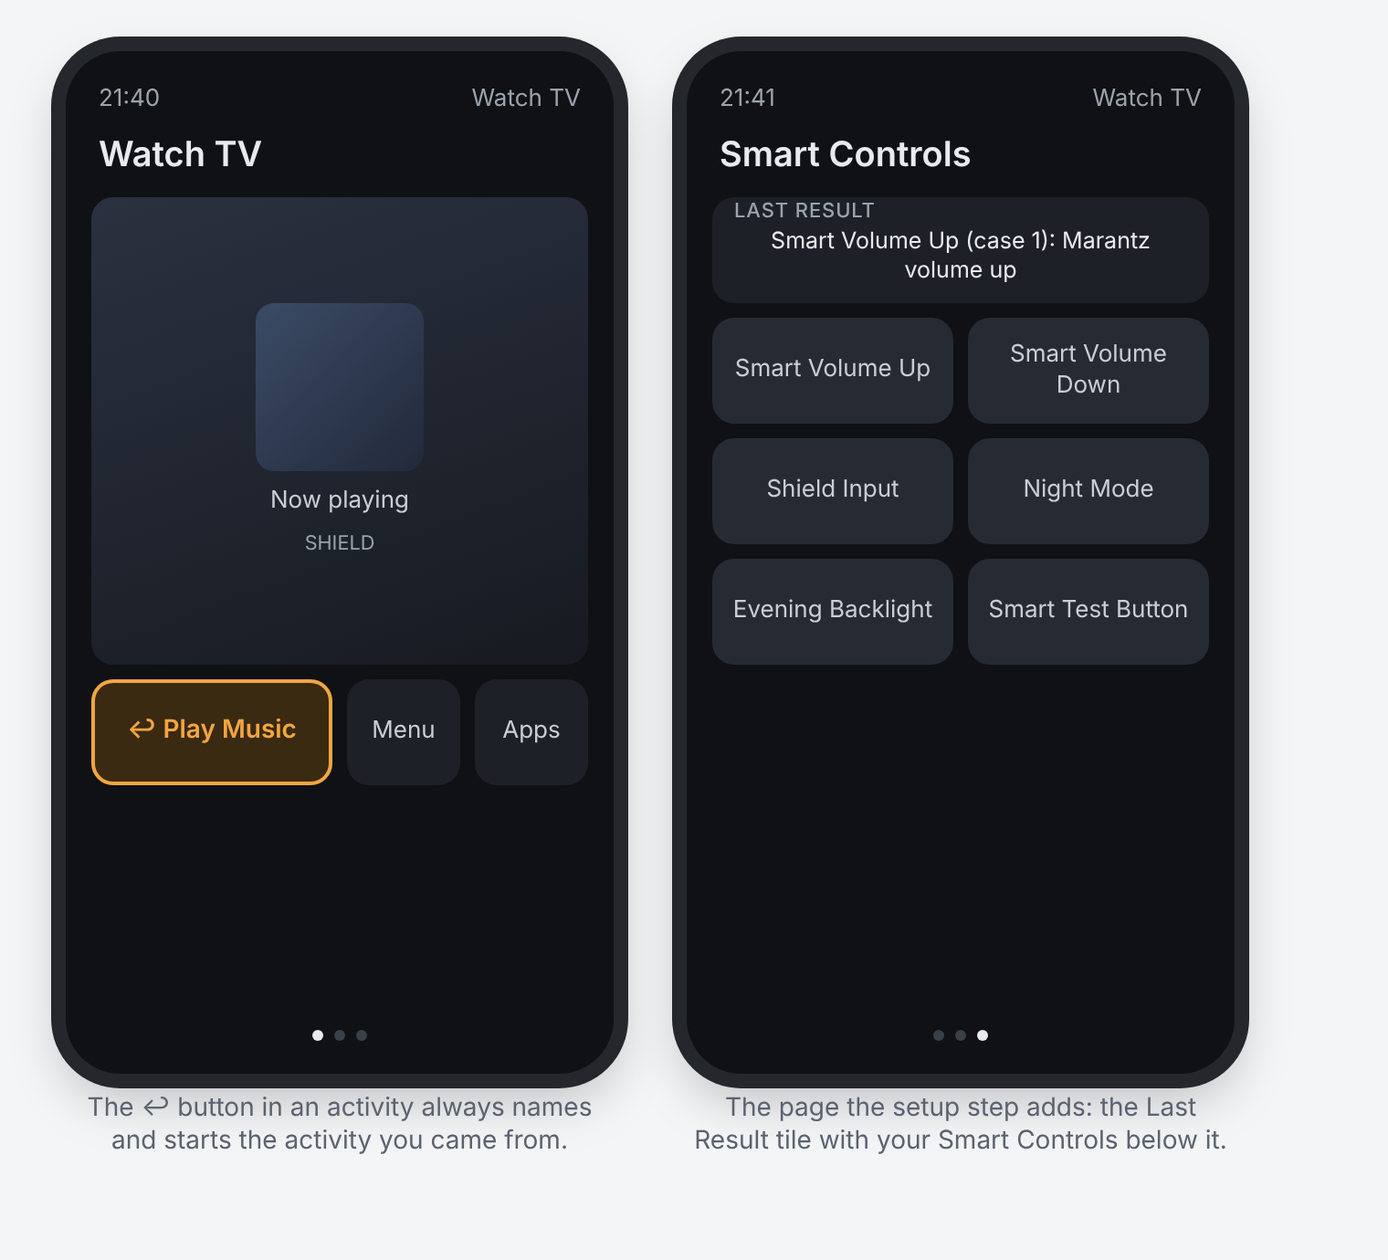
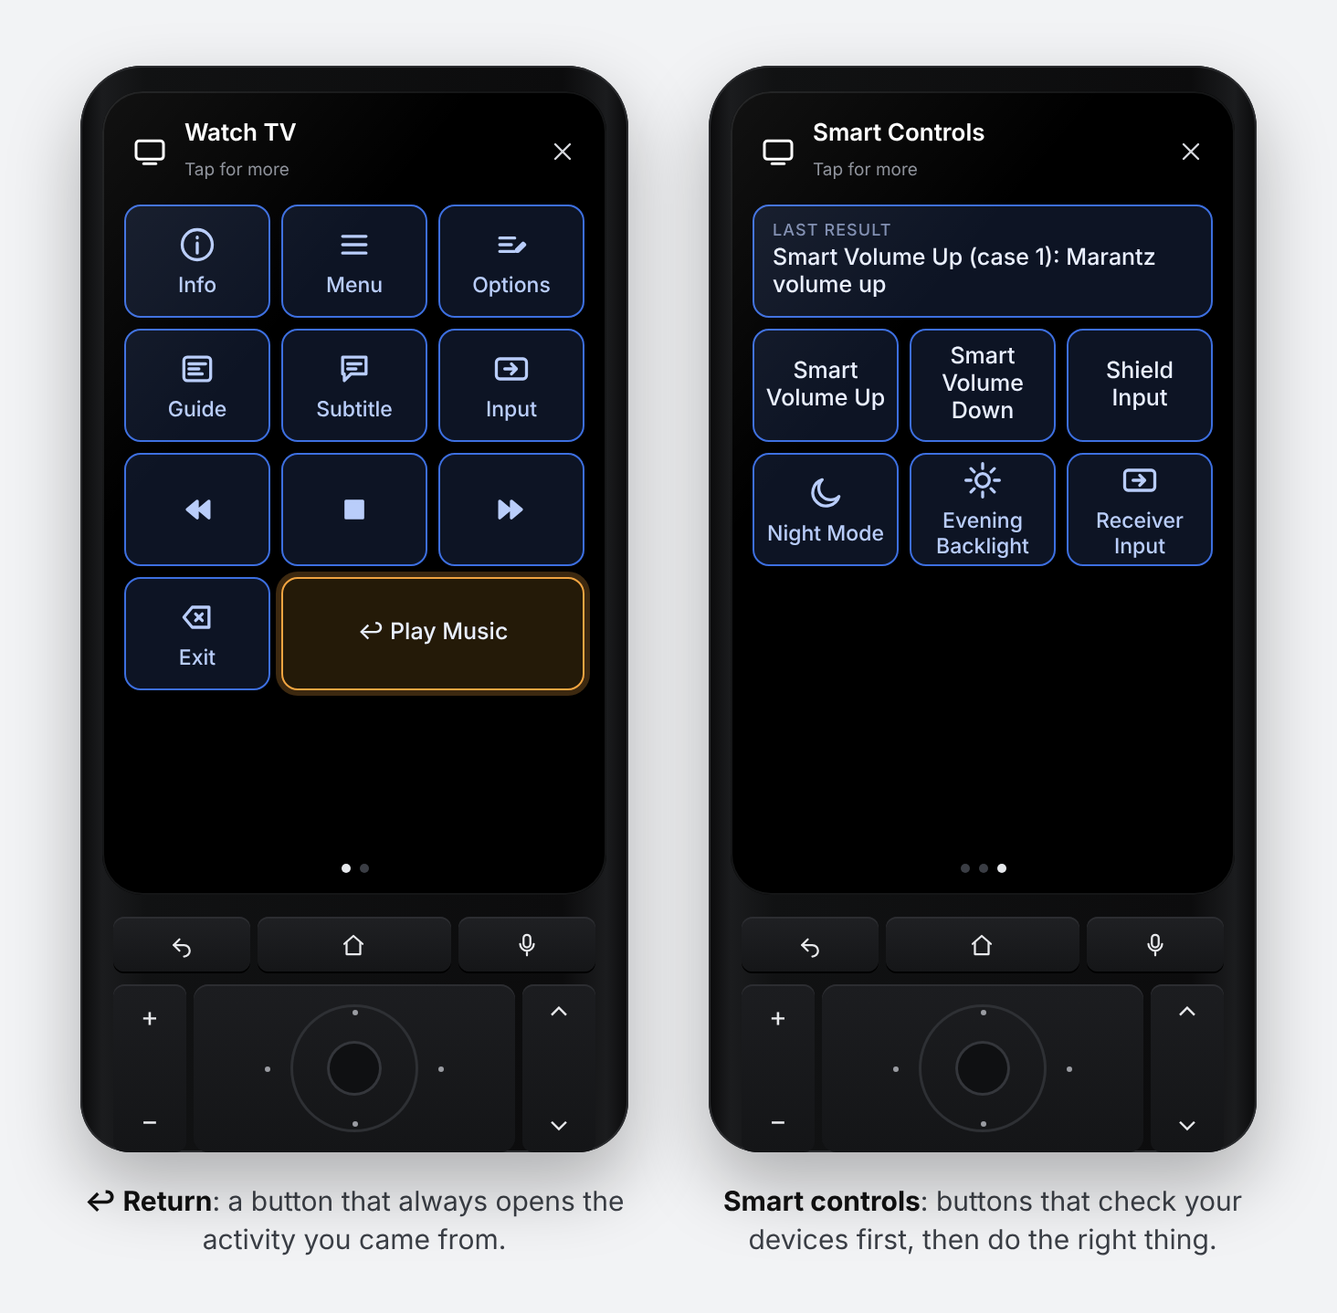
README for 0.8.0 (Controls, level pictures, device states, backup); new illustrations drawn after the Remote 3 screen; refreshed builder screenshots; states panel stacks its rows beside the editor
Claude-Session: https://claude.ai/code/session_016NWB9HcLxpD9Fz1hEPwFis

diff --git a/src/bin/web/builder.html b/src/bin/web/builder.html
@@ -128,7 +128,13 @@ details textarea { width: 100%; min-height: 120px; margin-block: 8px; }
 .pane-main { flex: 999 1 560px; min-width: 0; display: flex; flex-direction: column; gap: 14px; }
 .pane-side { flex: 1 1 340px; min-width: 0; position: sticky; top: 12px; max-height: calc(100vh - 24px); overflow-y: auto; }
 @media (max-width: 960px) { .pane-side { position: static; max-height: none; } }
-.pane-side .stable td.k { white-space: normal; }
+/* beside the editor the panel is narrow: name and current value on one line, the values below */
+.pane-side .stable thead { display: none; }
+.pane-side .stable tr { display: grid; grid-template-columns: auto 1fr; column-gap: 8px; border-bottom: 1px solid var(--line); }
+.pane-side .stable td { border-bottom: 0; }
+.pane-side .stable td.k { white-space: normal; overflow-wrap: anywhere; }
+.pane-side .stable td.now { overflow-wrap: normal; }
+.pane-side .stable td:nth-child(3) { grid-column: 1 / -1; padding-top: 0; }
 .states-panel summary { font-weight: 600; cursor: pointer; }
 .states-body { display: flex; flex-direction: column; gap: 10px; margin-top: 8px; }
 .stable { width: 100%; border-collapse: collapse; font-size: 13px; }

diff --git a/README.md b/README.md
@@ -8,18 +8,24 @@ A custom integration for the **Unfolded Circle Remote 3** (and Remote Two) that 
 - **Smart Controls:** buttons with if / else logic ("if the receiver is on, turn *it* up, otherwise the TV"), built in a browser page the integration serves itself.
 - **State icons:** make a button on a page change its icon with a device's state, like a green power icon while the receiver is on. Pick the button, drop in an image per state.
 - **Sliders & quick menus:** turn any number on your devices (receiver volume, a light, a blind) into a slider with the remote's own slider pop-up, and make pop-up menus whose choices run Smart Control steps (inputs, sound modes, scenes).
-- **Return to previous activity:** a ↩ button (on screen or a physical button) that always takes you back to the activity you came from.
+- **Return to previous activity:** a ↩ button (on screen or a physical button) that always takes you back to the activity you came from, optionally turning off the one you leave.
+- **Controls:** press a switch and the volume rocker and touch slider change something else for a few seconds (a light, a tone control, the screen brightness), with the remote's own volume pop-up.
+- **Level pictures:** a button that shows a device's level (bar, gauge, battery, …, 16 designs) in any color, even changing color with the value.
+- **Device states (live):** see every value your devices (and the remote itself, including its battery) report, and click them into conditions and state icons.
+- **Backup and restore:** everything you set up, with its pictures, in one file.
 
 > [!WARNING]
 > **Beta.** Tested on one Remote 3 so far. The integration changes your remote's settings, activities, pages and button mappings. **Back up your remote's configuration in the web configurator before installing**, so you can restore it if something goes wrong.
 
 > Community project, not affiliated with Unfolded Circle. MIT licensed. It changes the remote's settings through the remote's local Core REST API.
 
-![The ↩ button and the Smart Controls page on the remote (illustration)](docs/images/remote-screens.png)
+![The ↩ button and a Smart Controls page on the remote (illustration)](docs/images/remote-screens.png)
 
-<p align="center"><img src="docs/images/state-icon-demo.gif" alt="State icon: the power button turns green when the receiver is on" width="320"></p>
+![Controls with the remote's own pop-up, and a level picture on a button (illustration)](docs/images/remote-controls.png)
 
-*Illustration of what the integration adds to an activity. The screenshots below are of the real builder page, running against a test remote with example devices.*
+<p align="center"><img src="docs/images/state-icon-demo.gif" alt="State icon: the power button turns green when the receiver is on" width="300"></p>
+
+*Illustrations of what the integration adds to your activities, drawn after a Remote 3 screen. The screenshots further down are of the real builder page, running against a test remote with example devices.*
 
 ## Contents
 
@@ -35,6 +41,8 @@ A custom integration for the **Unfolded Circle Remote 3** (and Remote Two) that 
   8. [A power icon that turns green when the receiver is on](#8-a-power-icon-that-turns-green-when-the-receiver-is-on)
   9. [A receiver volume slider](#9-a-receiver-volume-slider)
   10. [A pop-up menu for the receiver's inputs](#10-a-pop-up-menu-for-the-receivers-inputs)
+  11. [The volume keys and touch slider for a light (Controls)](#11-the-volume-keys-and-touch-slider-for-a-light-controls)
+  12. [Back up everything](#12-back-up-everything)
 - [The builder](#the-builder)
 - [Entities](#entities)
 - [Rules reference](#rules-reference)
@@ -50,7 +58,7 @@ A custom integration for the **Unfolded Circle Remote 3** (and Remote Two) that 
    - If setup fails with a connection error, run it again with the remote's own IP address.
 4. Add the entities you want to the integration, then use them in activities, macros or pages.
 
-To update, use Install custom with **Update existing driver** checked. Your Smart Controls and settings are kept. No restart of the remote is needed.
+To update, first save a **Backup** in the builder (walkthrough 12), then use Install custom with **Update existing driver** checked. Your Smart Controls and settings are kept. No restart of the remote is needed.
 
 ## Walkthroughs
 
@@ -122,7 +130,7 @@ Jump from *Watch TV* to a *Home Assistant* or *Music* activity and back with one
 1. Open the builder's **Return ↩** tab → **+ Add an activity**, and pick the activity that gets a ↩ button. Each activity has its own settings and shows as one bar (with where its ↩ goes right now); **Edit** changes it, **Delete** inside the editor removes it.
 2. **On screen:** a text button "↩ <previous activity>", a back arrow, **your own picture** (drag and drop any PNG, JPG or SVG; it's resized to 90×90 and uploaded to the remote) or nothing. It's added to the first free spot of the activity's first page; move it wherever you like in the web configurator. Changing the look later updates the button where it is. A text button needs two free cells side by side; with only one, the icon is used. **The page's grid is never changed**: if there's no free spot, nothing is added (the bar then says so).
 3. **Physical button (optional):** button and short or long press, always or only if there's no room on screen. It replaces what that button does in that activity.
-4. **Turn this activity off when I switch to another one (optional):** the activities you mark go into one of the remote's **activity groups** (you pick which). When you switch between them, the remote turns off the activity you leave but keeps devices the new one uses on, like a shared receiver. This applies to every switch between them, not only ↩.
+4. **Turn this activity off when I switch to another one (optional):** when you leave a marked activity (with ↩ or any other way), the integration sends it a plain "turn off". Meant for a single device's control page (a receiver page, say), whose own on/off sequences don't matter. It works when ↩ goes back to an activity that is still running, too.
 
 The older setup screen (Integrations → Remote Self-Control → **Configure** → **Return to previous activity**) still works for the basic settings.
 
@@ -144,7 +152,7 @@ sequenceDiagram
 
 Why it works this way: the remote only switches screens when *you* press a button that starts an activity. An integration can't switch screens, so instead it rewrites the ↩ buttons ahead of time. While you're in one activity, the ↩ buttons in all the others already point to it.
 
-Limit: the remote reports an activity "starting" only when it goes from off to on. Reopening an activity that's still on (for example with ↩) isn't seen, so ↩ toggles between the last two activities you started.
+The integration follows the remote's own events, so it also sees you reopen an activity that is still on (for example with ↩), and the ↩ buttons keep pointing the right way.
 
 ### 7. Display brightness on the touch slider
 
@@ -188,18 +196,17 @@ A slider is a light entity of this integration that stands for a number on anoth
 3. **Save**, then type a value under **Try a value** and press **Set** to check it.
 4. Integrations → Remote Self-Control → add the new slider (group **Remote Sliders & Menus**).
 5. Put it on a **home page**: tapping the tile opens the slider pop-up. On a Remote 3 you can also set an activity's **touch slider** to it.
-6. Optional: pick a **tile icon** (step 4) and tick **Show the level on a page** (step 5) to add a live level graphic: pick a single-page activity, click the button, pick a design and color (below).
+6. Optional: pick a **tile icon** (step 4), and in step 5 pick a single-page activity and click the button that should **show the level**, then pick a design and color (below).
 
 The slider follows changes made elsewhere (within about 2 seconds while the remote is awake). Switching the slider **off** sets the lowest value; **on** goes back to the last value. When you drag quickly, the newest position wins: values in between are skipped instead of queued.
 
 **Custom graphics.** The slider pop-up itself is drawn by the remote and can't be restyled, but two things can:
 
 - **Tile icon:** 12 icons (volume, speaker, subwoofer, light bulb, brightness, blinds, temperature, fan, knob, equalizer, microphone, list) for the slider's or menu's tile on home pages and in lists. Pick one on the card; it's uploaded to the remote and set once the entity has been added to the integration.
-- **Live level graphic:** a button on an activity page whose image shows the current value: bar, column, arc gauge, ring, dots, signal, speaker, knob, tank, thermometer, equalizer or segments, in 6 colors. It's set up in the slider itself (step 5), the only place level graphics are made. The gauges have transparent backgrounds; because the remote shows one picture per button, **Draw over the button's own picture** (offered when the button has a custom picture, like a tile of a picture-skin page) bakes that picture under the gauge, and **Gauge size** (full, large, medium) leaves more of it visible. 11 images (0 %, 10 % … 100 %) are made in the builder and uploaded when you save, and the button shows the one closest to the value. Same limits as state icons: **single-page activities only**, about 2 seconds' delay. What the button does when pressed doesn't change (map it to the slider's toggle or volume up, for example).
-- **Over several buttons:** set **Draw over** to *Several buttons* and click two opposite corners on the page, for example the top and bottom tiles of the left column. The gauge is drawn as one picture over the whole rectangle (column, row or block, up to 24 buttons) and cut into one image per button. **Fit to the shape**: *Stretch* fills the shape (a column gauge becomes a tall bar down the side), *Keep proportions* centers it. Every button in the shape must be a 1×1 icon or text button; empty spots are allowed (that part isn't shown). Saving uploads 11 images per button, so a 6-button column takes a little longer.
-- **Only when the value changes:** **Show the level** → *Only for a few seconds when the value changes* (1–60 s, default 4). The buttons show their own pictures until the value changes (from anywhere, e.g. the remote's volume keys), then the level appears and hides again after the set time. Like all page changes it arrives about 2 seconds after the change.
+- **Level picture:** a button on an activity page whose picture shows the current value. 16 designs: bar, column, arc gauge, ring, dots, signal, speaker, knob, tank, thermometer, equalizer, segments, battery, needle, pie and steps. Pick the color on a **color wheel**, and add **Change color from a value…** steps (for example orange from 60 %, red from 85 %). 11 pictures (0 %, 10 % … 100 %) are made in the builder and uploaded when you save, and the button shows the one closest to the value. **Size** (full, large, medium) leaves room around it. Same limits as state icons: **single-page activities only**, about 2 seconds' delay. What the button does when pressed doesn't change (map it to the slider's toggle or volume up, for example).
+- **Only when the value changes:** **Show the level** → *Only for a few seconds when the value changes* (1–60 s, default 4). The button shows its own look until the value changes (from anywhere, e.g. the remote's volume keys), then the level appears and hides again after the set time.
 
-![The 12 level graphics and 12 tile icons](docs/images/slider-graphics.png)
+![The 16 level pictures, colors by value and the 12 tile icons](docs/images/slider-graphics.png)
 
 ### 10. A pop-up menu for the receiver's inputs
 
@@ -210,11 +217,31 @@ A quick menu is a list entity whose choices each run steps, the same steps as a 
 3. **Save**, then press **Run** on a choice to try it.
 4. Add the menu to the integration, and put it on a home page or an activity page: it opens the remote's list pop-up; picking a choice runs it.
 
-**Step through on a button:** in the menu's **Step through the choices with a button** section, pick an activity, a physical button and short or long press. Each press then runs the next choice (choice 1, then 2, then 3 …) and, with *start over at the first* ticked, goes back to choice 1 after the last. Add the menu to the integration before saving this; the integration maps the button and adds the menu to the activity's devices. Removing the button from the menu unmaps it again.
+**Step through on a button:** map a physical button to the menu's **Select next** (or **Select previous**) in the activity's button mapping. Each press runs the next choice; with *start over at the first* ticked (the default), it goes back to choice 1 after the last.
 
 Choices without a *current when* condition show as current after you pick them. **+ Create quick menu** starts an empty menu for anything else, for example scenes that set lights, inputs and volume together.
 
-![A slider and a quick menu in the builder](docs/images/builder-sliders-menus.png)
+![A slider with a level picture in the builder](docs/images/builder-sliders-menus.png)
+
+### 11. The volume keys and touch slider for a light (Controls)
+
+Point the remote's volume rocker and touch slider at something else for a moment (a light, a tone control, the screen), and get the remote's own volume pop-up with it.
+
+1. Builder → **Controls ⇅** tab → **+ Create control**, name it (*Ceiling Light*) and pick what it changes: a light, a volume, the remote's display or backlight brightness, or one of your sliders (for IR up/down devices).
+2. Set the **starting value** and the **change per rocker press**. For devices that don't report their level, choose whether it starts from the value it was left at or from the starting value every time; **Reset the value** fixes the count when it gets out of step.
+3. **Settings:** how long a control stays on after the last press (or until changed), and per activity what the rocker and touch slider do when no control is on (your TV's volume, the screen brightness, or nothing). **Borrow** keeps the rocker mapped straight to your TV and points it at *Control* only while a control is on.
+4. Integrations → Remote Self-Control → add **Control**, **Control Level**, **Control Active** and the new **Control: Ceiling Light** switch (group **Remote Controls**). Put the switch on a page, set the touch slider to *Control* (or *Control Level*).
+5. Press **Control: Ceiling Light**: the rocker now changes the light with the vertical pop-up, the slider too, and after the timeout everything goes back. Turning another control on switches to it.
+
+![A control in the builder](docs/images/builder-controls.png)
+
+### 12. Back up everything
+
+Builder → **Backup** (top right) → **Download backup** saves one `.json` file with your smart controls, sliders and quick menus, state icons and level pictures, ↩ buttons and Controls, **plus the custom pictures** they use. It doesn't contain the integration's login to the remote.
+
+To restore, choose the file, tick the parts you want and press **Restore**. Every part is checked first; if one has a problem nothing is changed. Missing pictures are uploaded again, so it also works after a factory reset or on another remote (↩ buttons for activities that don't exist there are skipped).
+
+<img src="docs/images/builder-backup.png" alt="Backup and restore" width="760">
 
 ## The builder
 
@@ -229,7 +256,7 @@ The integration serves its own builder page on your network, at `http://<remote-
 - **Create, then list:** each tab starts with its **+ Create** button. It opens an editor box for the new item; a **name is required**. After **Save**, the item shows below as one bar with its name, what it does and an **Edit** button that opens its settings again (with **Delete** inside).
 - **Save** writes to the remote (everything is checked first; errors are listed in the editor). **Save & test** runs a smart control once and shows the result.
 - **Device states (live)** (Smart Controls and Icons & Sliders tabs): pick a device and see every value its integration reports, updated every 2 seconds, with all values seen so far. Tick *Keep collecting in the background* to gather values that only show up now and then (an audio format, an app name). It sits to the right of the editor. Click a value field in the editor, then a value in the panel to fill it in (a condition also gets that device and attribute); in a state icon a clicked value is added as a state, and *use* points a slider at a number. Values seen are also offered in the value lists of state icons and conditions.
-- **Rules text** exports and imports everything as JSON, for backups and sharing.
+- **Backup** (top right) saves and restores everything you set up, with its pictures (walkthrough 12). **Rules text** exports and imports the smart controls alone as JSON, for sharing.
 - Works on phones and in dark mode, and needs no internet: everything is served by the remote.
 
 | Dark mode | Phone |
@@ -266,6 +293,10 @@ Grouped by area in the web configurator.
 | | Sound Effects | switch | on/off |
 | | Haptic Feedback | switch | on/off |
 | **Remote Navigation** | Previous Activity | sensor | name of the activity used before the current one |
+| **Remote Controls** | Control | media player | volume rocker / touch slider target; its volume is the level being changed |
+| | Control Level | light | the same level as a light (touch slider set to a light, home tile pop-up) |
+| | Control Active | sensor | "Ceiling Light · 60 %" or "None" |
+| | Control: (your control) | switch | turns that control on (and any other off) |
 | *(builder)* | State icons | page buttons | icon/label follows a device's state (single-page activities) |
 | **Remote Sliders & Menus** | (your sliders) | light | slider pop-up / touch slider for a number on a device |
 | | (your quick menus) | select | list pop-up; each choice runs steps |
@@ -303,7 +334,7 @@ Tips:
 | Activity | `{ "activity_on": "<activity id>" }` |
 | Time | `{ "time_between": ["22:00", "06:00"] }` |
 | This remote's control | `{ "control": "backlight_color", "is": "Movie red" }` |
-| This remote's setting | `{ "setting": "display.brightness", ">": 50 }` |
+| This remote's setting | `{ "setting": "display.brightness", ">": 50 }`, `{ "setting": "battery.level", "<": 20 }`, `{ "setting": "battery.charging", "is": true }` |
 | Memory | `{ "var": "night_mode", "is": "on" }` |
 | Combine | `{ "all": [ … ] }`, `{ "any": [ … ] }`, `{ "not": … }` |
 
@@ -318,7 +349,7 @@ Tips:
 | Remember / restore settings | `{ "save_settings": "before" }`, `{ "restore_settings": "before" }` |
 | Stop | `{ "stop": true }` |
 
-For lists, `option` can also be `next` / `previous` (wraps around) or `up` / `down` (stops at the ends). The short form `{ "id", "name", "if", "do", "else" }` works too. Limits: 30 controls, 8 branches each, 12 steps per branch, 30 s per run. A press while the same control is still running is ignored.
+For lists, `option` can also be `next` / `previous` (wraps around) or `up` / `down` (stops at the ends). The short form `{ "id", "name", "if", "do", "else" }` works too. Limits: 60 smart controls, 12 branches each, 24 steps per branch, pauses and waits up to 60 s; 60 state icons watching up to 25 devices; 30 sliders, quick menus (30 choices each) and Controls. A press while the same control is still running is ignored.
 
 ## Security
 
@@ -335,7 +366,7 @@ For lists, `option` can also be `next` / `previous` (wraps around) or `up` / `do
 | `UC_SELF_RETURN_POLL_MS` | `2000` | How often activity states (↩ button), state-icon devices, slider values and menu conditions are read |
 | `UC_SELF_SLIDER_HOLD_MS` | `3000` | After you move a slider, device reports are ignored this long so a slow device can't jump it back |
 
-Files in the integration's config folder: `self_control.json` (address + API key), `smart_rules.json` (your rules; absent = defaults), `smart_vars.json` (remembered values), `return.json` (↩ settings and activity history), `state_icons.json` (state icons and each button's default look), `sliders_menus.json` (sliders, quick menus and their last values).
+Files in the integration's config folder: `self_control.json` (address + API key), `smart_rules.json` (your rules; absent = defaults), `smart_vars.json` (remembered values), `return.json` (↩ settings and activity history), `state_icons.json` (state icons and each button's default look), `sliders_menus.json` (sliders, quick menus and their last values), `controls.json` (Controls), `states_seen.json` (values seen in the device states panel). The builder's **Backup** saves all of these except the login and the caches.
 
 ## Logs and removal
 
@@ -355,6 +386,10 @@ src/bin/tile.js                         puts the Last Result tile on an activity
 src/bin/returnbtn.js                    return to previous activity (tracking + ↩ buttons)
 src/bin/stateicons.js                   state icons (watch devices, switch button looks)
 src/bin/extras.js                       virtual sliders and quick menus
+src/bin/controls.js                     Controls (volume rocker / touch slider for other things)
+src/bin/states.js                       device states panel (live values, values seen)
+src/bin/coreevents.js                   the remote's own events (which activity was opened)
+src/bin/backup.js                       backup and restore
 src/bin/default-rules.json              default Smart Controls (Smart Test Button)
 examples/                               example rules
 test/                                   fake Core API + Integration-API test client
@@ -365,7 +400,7 @@ Tests (Node 22):
 ```
 npm install                 # dev dependency: ws
 (cd src/bin && npm install)
-npm test                    # settings, Smart Controls + builder API, return button, state icons, sliders & menus
+npm test                    # builder page, settings, Smart Controls, return, state icons, sliders & menus, Controls, device states, events
 ```
 
 Build the install archive:
